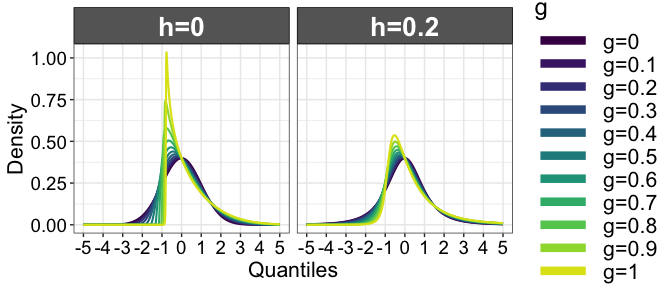
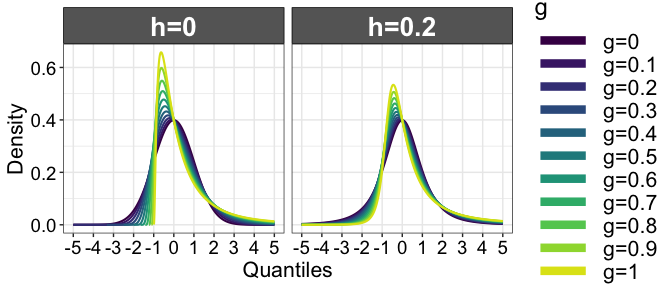
update g-and-h pdf
Use appropriate code from Yan & Genton 2019, instead of the gk package. Update two notebooks that used the code (ptb, compcorr) and add ghpdf.txt to define functions (code provided by Yuan Yan).

Changed region(s): [[0.0312, 0.0, 0.75, 0.9688], [0.5312, 0.0625, 0.6562, 0.125], [0.2188, 0.0625, 0.3125, 0.125]]

diff --git a/docs/compcorr.md b/docs/compcorr.md
@@ -1,7 +1,7 @@
 Compare correlations
 ================
 Guillaume A. Rousselet
-2022-06-13
+2022-11-07
 
 # Dependencies
 
@@ -13,9 +13,12 @@ library(beepr)
 # library(cowplot)
 source("./functions/theme_gar.txt")
 source("./functions/Rallfun-v40.txt")
-# generate PDF of g-and-k distributions (generalised g-and-h distributions)
-# Prangle (2020) [https://journal.r-project.org/archive/2020/RJ-2020-010/index.html]
-library(gk) 
+# generate PDF of g-and-h distributions 
+source('./functions/ghpdf.txt') # code from Yuan Yan
+# dependencies for den_tukey()
+library(LambertW)
+library(gsl)
+library(nleqslv)
 # Adaptation of code from Ruscio & Kaczetow (2008) to generate multivariate correlated data
 source("./functions/gengh.txt") 
 source("./functions/corfun.txt")
@@ -25,7 +28,7 @@ source("./functions/corfun.txt")
 sessionInfo()
 ```
 
-    ## R version 4.2.0 (2022-04-22)
+    ## R version 4.2.1 (2022-06-23)
     ## Platform: x86_64-apple-darwin17.0 (64-bit)
     ## Running under: macOS Catalina 10.15.7
     ## 
@@ -40,19 +43,21 @@ sessionInfo()
     ## [1] stats     graphics  grDevices utils     datasets  methods   base     
     ## 
     ## other attached packages:
-    ## [1] gk_0.5.1      beepr_1.3     cubelyr_1.0.1 ggplot2_3.3.6 tibble_3.1.7 
+    ## [1] nleqslv_3.3.3    gsl_2.1-7.1      LambertW_0.6.7-1 MASS_7.3-57     
+    ## [5] beepr_1.3        cubelyr_1.0.1    ggplot2_3.3.6    tibble_3.1.8    
     ## 
     ## loaded via a namespace (and not attached):
-    ##  [1] pillar_1.7.0     compiler_4.2.0   tools_4.2.0      digest_0.6.29   
-    ##  [5] evaluate_0.15    lifecycle_1.0.1  gtable_0.3.0     pkgconfig_2.0.3 
-    ##  [9] rlang_1.0.2      cli_3.3.0        rstudioapi_0.13  yaml_2.3.5      
-    ## [13] xfun_0.31        fastmap_1.1.0    withr_2.5.0      stringr_1.4.0   
-    ## [17] dplyr_1.0.9      knitr_1.39       generics_0.1.2   vctrs_0.4.1     
-    ## [21] grid_4.2.0       tidyselect_1.1.2 glue_1.6.2       R6_2.5.1        
-    ## [25] fansi_1.0.3      rmarkdown_2.14   purrr_0.3.4      magrittr_2.0.3  
-    ## [29] scales_1.2.0     ellipsis_0.3.2   htmltools_0.5.2  colorspace_2.0-3
-    ## [33] utf8_1.2.2       stringi_1.7.6    munsell_0.5.0    crayon_1.5.1    
-    ## [37] audio_0.1-10
+    ##  [1] Rcpp_1.0.9         plyr_1.8.7         RColorBrewer_1.1-3 pillar_1.8.1      
+    ##  [5] compiler_4.2.1     tools_4.2.1        digest_0.6.30      evaluate_0.15     
+    ##  [9] lifecycle_1.0.3    gtable_0.3.1       pkgconfig_2.0.3    rlang_1.0.6       
+    ## [13] cli_3.4.1          rstudioapi_0.13    yaml_2.3.5         xfun_0.31         
+    ## [17] fastmap_1.1.0      withr_2.5.0        stringr_1.4.1      dplyr_1.0.10      
+    ## [21] knitr_1.39         generics_0.1.3     vctrs_0.5.0        grid_4.2.1        
+    ## [25] tidyselect_1.1.2   glue_1.6.2         R6_2.5.1           lamW_2.1.1        
+    ## [29] fansi_1.0.3        rmarkdown_2.14     reshape2_1.4.4     purrr_0.3.4       
+    ## [33] magrittr_2.0.3     scales_1.2.1       htmltools_0.5.3    colorspace_2.0-3  
+    ## [37] utf8_1.2.2         stringi_1.7.8      RcppParallel_5.1.5 munsell_0.5.0     
+    ## [41] audio_0.1-10
 
 # Correlation functions
 
@@ -243,13 +248,6 @@ corb(x,y, corfun=wincor, tr=0.25, SEED = FALSE)
 mscor(cbind(x,y),corfun=pcor)
 ```
 
-    ## 
-    ## Attaching package: 'MASS'
-
-    ## The following object is masked _by_ '.GlobalEnv':
-    ## 
-    ##     ltsreg
-
     ## $cor
     ##            [,1]       [,2]
     ## [1,]  1.0000000 -0.2724987
@@ -289,18 +287,16 @@ and marginal distributions that follow a *g-and-h* distribution.
 
 ## Illustrate univariate *g-and-h* distributions
 
-We use the function `gk::dgh()` to create PDF of *g-and-h* distributions
-[Prangle
-(2020)](https://journal.r-project.org/archive/2020/RJ-2020-010/index.html).
-*g-and-h* distributions have a median of zero. The parameter g controls
-the asymmetry of the distribution, while the parameter h controls the
-thickness of the tails. With h=0, g=0 corresponds to a normal
-distribution, whereas g=1 gives a distribution with the same shape as a
-lognormal distribution. These distributions are described in this 1985
-book:
+The Tukey *g-and-h* distributions have a median of zero. The parameter g
+controls the asymmetry of the distribution, while the parameter h
+controls the thickness of the tails. With h=0, g=0 corresponds to a
+normal distribution, whereas g=1 gives a distribution with the same
+shape as a lognormal distribution. These distributions are described in
+this 1985 book:
 <http://eu.wiley.com/WileyCDA/WileyTitle/productCd-047004005X.html>
 There is also a description in Rand Wilcox’s book Introduction to Robust
-Estimation. See also: <https://www.jstor.org/stable/25471119>
+Estimation. See also: <https://www.jstor.org/stable/25471119>  
+<https://rss.onlinelibrary.wiley.com/doi/full/10.1111/j.1740-9713.2019.01273.x>
 
 ``` r
 x <- seq(-5, 5, 0.01) # vector of quantiles
@@ -316,7 +312,7 @@ res <- array(data = NA, dim = c(nx, ng, nh), dimnames = list(x = x, g = gseq, h 
 
 for(G in 1:ng){
   for(H in 1:nh){  
-    res[,G,H] <- gk::dgh(x, A, B, gseq[G], hseq[H])  
+    res[,G,H] <- den_tukey(x, gseq[G], hseq[H])  
   }
 }
 

diff --git a/docs/ptb.md b/docs/ptb.md
@@ -1,7 +1,7 @@
 Bootstrap-t method
 ================
 Guillaume A. Rousselet
-2022-06-13
+2022-11-07
 
 ``` r
 # dependencies
@@ -11,9 +11,11 @@ source('./functions/Rallfun-v40.txt')
 source('./functions/theme_gar.txt')
 source('./functions/functions.txt')
 library(beepr)
-# generate PDF of g-and-k distributions (generalised g-and-h distributions)
-# Prangle (2020) [https://journal.r-project.org/archive/2020/RJ-2020-010/index.html]
-library(gk)
+source('./functions/ghpdf.txt') # code from Yuan Yan
+# dependencies for den_tukey()
+library(LambertW)
+library(gsl)
+library(nleqslv)
 # library(cowplot)
 ```
 
@@ -21,7 +23,7 @@ library(gk)
 sessionInfo()
 ```
 
-    ## R version 4.2.0 (2022-04-22)
+    ## R version 4.2.1 (2022-06-23)
     ## Platform: x86_64-apple-darwin17.0 (64-bit)
     ## Running under: macOS Catalina 10.15.7
     ## 
@@ -36,19 +38,21 @@ sessionInfo()
     ## [1] stats     graphics  grDevices utils     datasets  methods   base     
     ## 
     ## other attached packages:
-    ## [1] gk_0.5.1      beepr_1.3     tibble_3.1.7  ggplot2_3.3.6
+    ## [1] nleqslv_3.3.3    gsl_2.1-7.1      LambertW_0.6.7-1 MASS_7.3-57     
+    ## [5] beepr_1.3        tibble_3.1.8     ggplot2_3.3.6   
     ## 
     ## loaded via a namespace (and not attached):
-    ##  [1] pillar_1.7.0     compiler_4.2.0   tools_4.2.0      digest_0.6.29   
-    ##  [5] evaluate_0.15    lifecycle_1.0.1  gtable_0.3.0     pkgconfig_2.0.3 
-    ##  [9] rlang_1.0.2      cli_3.3.0        rstudioapi_0.13  yaml_2.3.5      
-    ## [13] xfun_0.31        fastmap_1.1.0    withr_2.5.0      stringr_1.4.0   
-    ## [17] dplyr_1.0.9      knitr_1.39       generics_0.1.2   vctrs_0.4.1     
-    ## [21] grid_4.2.0       tidyselect_1.1.2 glue_1.6.2       R6_2.5.1        
-    ## [25] fansi_1.0.3      rmarkdown_2.14   purrr_0.3.4      magrittr_2.0.3  
-    ## [29] scales_1.2.0     ellipsis_0.3.2   htmltools_0.5.2  colorspace_2.0-3
-    ## [33] utf8_1.2.2       stringi_1.7.6    munsell_0.5.0    crayon_1.5.1    
-    ## [37] audio_0.1-10
+    ##  [1] Rcpp_1.0.9         plyr_1.8.7         RColorBrewer_1.1-3 pillar_1.8.1      
+    ##  [5] compiler_4.2.1     tools_4.2.1        digest_0.6.30      evaluate_0.15     
+    ##  [9] lifecycle_1.0.3    gtable_0.3.1       pkgconfig_2.0.3    rlang_1.0.6       
+    ## [13] cli_3.4.1          rstudioapi_0.13    yaml_2.3.5         xfun_0.31         
+    ## [17] fastmap_1.1.0      withr_2.5.0        stringr_1.4.1      dplyr_1.0.10      
+    ## [21] knitr_1.39         generics_0.1.3     vctrs_0.5.0        grid_4.2.1        
+    ## [25] tidyselect_1.1.2   glue_1.6.2         R6_2.5.1           lamW_2.1.1        
+    ## [29] fansi_1.0.3        rmarkdown_2.14     reshape2_1.4.4     purrr_0.3.4       
+    ## [33] magrittr_2.0.3     scales_1.2.1       htmltools_0.5.3    colorspace_2.0-3  
+    ## [37] utf8_1.2.2         stringi_1.7.8      RcppParallel_5.1.5 munsell_0.5.0     
+    ## [41] audio_0.1-10
 
 # Functions from Rand Wilcox
 
@@ -193,12 +197,10 @@ and medians.
 ``` r
 set.seed(21)
 nsim <- 1000000 # population size
-nkde <- 50000 # sample size for KDE
+
 # g-and-h parameters
 gseq <- seq(0,1,0.1) # sequence of g parameters
 h <- 0
-A <- 0 # location parameter
-B <- 1 # scale parameter
 xseq <- seq(-5,7,0.01) # points at which to compute PDF
 gh.pdf <- matrix(0, nrow = length(xseq), ncol = length(gseq)) # PDFs to plot in next figure
 mean.g <- vector(mode = "numeric", length = length(gseq))
@@ -208,12 +210,9 @@ md.g <- vector(mode = "numeric", length = length(gseq))
 
 for(G in 1:length(gseq)){
   print(paste("gseq =",G,"/",length(gseq)))
-  beep(2)
-  set.seed(7)
+  set.seed(7) # get same random numbers before transformation
   samp <- ghdist(nsim, g = gseq[G], h = 0)
-  # gh.kde[,G] <- akerd(ghdist(nkde, g = gseq[G], h = 0), 
-  #                     pts = xseq, pyhat = TRUE, plotit = FALSE)
-  gh.pdf[,G] <- gk::dgh(xseq, A, B, gseq[G], h)
+  gh.pdf[,G] <- den_tukey(xseq, gseq[G], h)
   mean.g[G] <- mean(samp) # population mean
   tmean10.g[G] <- mean(samp, trim = 0.1) # population 10% trimmed mean
   tmean20.g[G] <- mean(samp, trim = 0.2) # population 20% trimmed mean
@@ -250,6 +249,8 @@ p <- ggplot(df, aes(x = x, y = y, colour = g)) + theme_gar +
   guides(colour = guide_legend(override.aes = list(size=3)))
 p
 ```
+
+    ## Warning: Removed 2578 row(s) containing missing values (geom_path).
 
 ![](ptb_files/figure-gfm/unnamed-chunk-11-1.png)<!-- -->
 

diff --git a/README.md b/README.md
@@ -8,9 +8,9 @@ Rousselet G.A., Pernet C.R., Wilcox R.R.
 
 The repository contains all of the [R](https://www.r-project.org/) code  used in the article. The code is best seen by running the RMarkdown notebooks, within [RStudio](https://www.rstudio.com/).
 
-The code is released under the [MIT license](https://opensource.org/licenses/MIT). Copyright 2019, Guillaume A. Rousselet.
+The code is released under the [MIT license](https://opensource.org/licenses/MIT). Copyright 2019-2022, Guillaume A. Rousselet.
 
-The figures are released under the [CC-BY 4.0 license](https://creativecommons.org/licenses/by/4.0/legalcode). Copyright 2019, Rousselet, Pernet & Wilcox.
+The figures are released under the [CC-BY 4.0 license](https://creativecommons.org/licenses/by/4.0/legalcode). Copyright 2019-2022, Rousselet, Pernet & Wilcox.
 
 # Content
 |folder|description|
